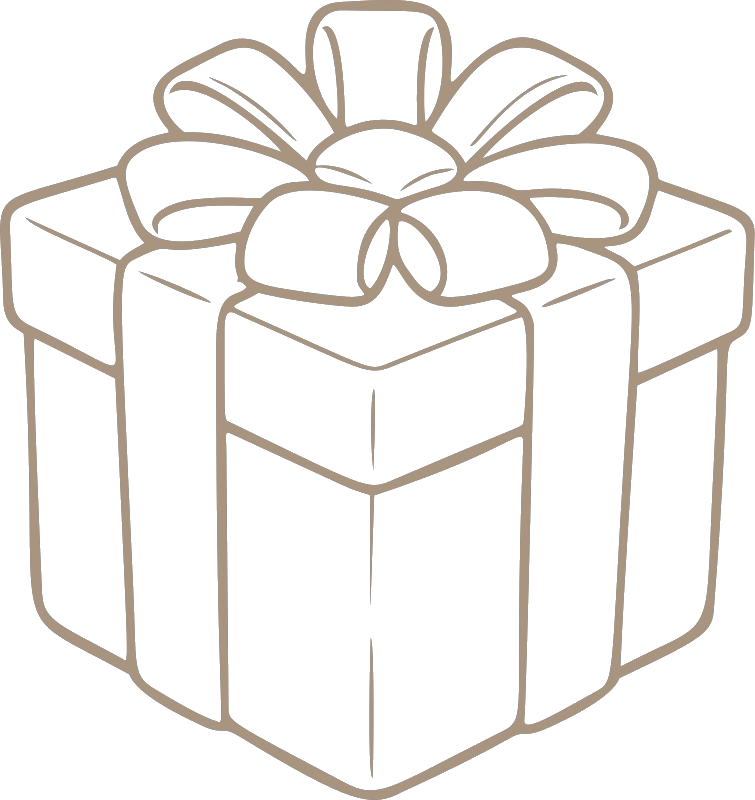
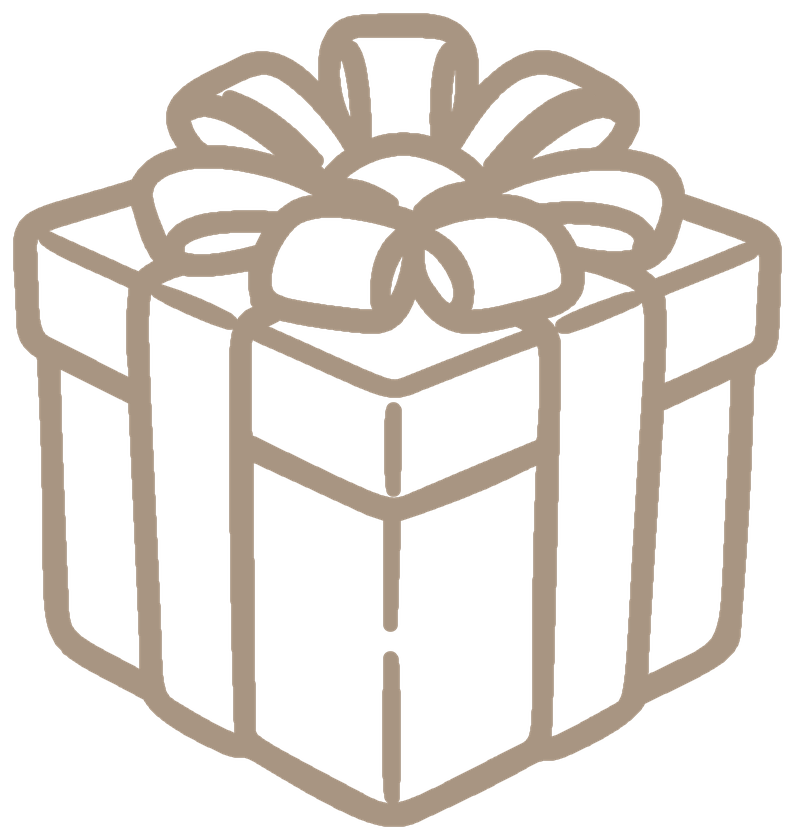
Marco de "el recreo" y tamaños

Changed region(s): [[0.0, 0.0, 1.0, 1.0]]

diff --git a/index.html b/index.html
@@ -254,7 +254,8 @@
                 </div>
 
                 <h3 class="dresscode-title">Vestimenta formal.</h3>
-                <p class="dresscode-reserved-note">Se reservan los colores: blanco, celestes y azules.</p>
+                <p class="dresscode-reserved-note">Se reservan para la quinceañera y la familia los colores: blanco,
+                    celestes y azules.</p>
 
                 <div class="colors-reserved-pills">
                     <div class="color-pill">
@@ -289,7 +290,7 @@
                         <path d="M22 11.08V12a10 10 0 1 1-5.93-9.14"></path>
                         <polyline points="22 4 12 14.01 9 11.01"></polyline>
                     </svg>
-                    Confirmar Asistencia
+                    Confirmar ahora
                 </a>
             </section>
 
@@ -305,13 +306,7 @@
                 </p>
 
                 <button type="button" class="btn-cta btn-luxury" id="open-gift-modal-btn">
-                    <svg viewBox="0 0 24 24" fill="none" stroke="currentColor" stroke-width="2">
-                        <polyline points="20 12 20 22 4 22 4 12"></polyline>
-                        <rect x="2" y="7" width="20" height="5"></rect>
-                        <line x1="12" y1="22" x2="12" y2="7"></line>
-                        <path d="M12 7H7.5a2.5 2.5 0 0 1 0-5C11 2 12 7 12 7z"></path>
-                        <path d="M12 7h4.5a2.5 2.5 0 0 0 0-5C13 2 12 7 12 7z"></path>
-                    </svg>
+                    <img src="assets/img/datos-bancarios.png" alt="Datos bancarios">
                     Datos bancarios
                 </button>
             </section>

diff --git a/assets/css/style.css b/assets/css/style.css
@@ -661,7 +661,7 @@ body {
 .venue-image {
   width: 100%;
   height: 100%;
-  object-fit: cover;
+  object-fit: contain;
   transition: transform 0.6s ease;
 }
 
@@ -993,10 +993,17 @@ body {
 }
 
 .btn-cta svg,
-.btn-cta i {
+.btn-cta i,
+.btn-cta img {
   width: 18px;
   height: 18px;
   stroke-width: 2.2;
+  object-fit: contain;
+}
+
+#open-gift-modal-btn img {
+  width: 26px;
+  height: 26px;
 }
 
 .btn-cta-secondary {
